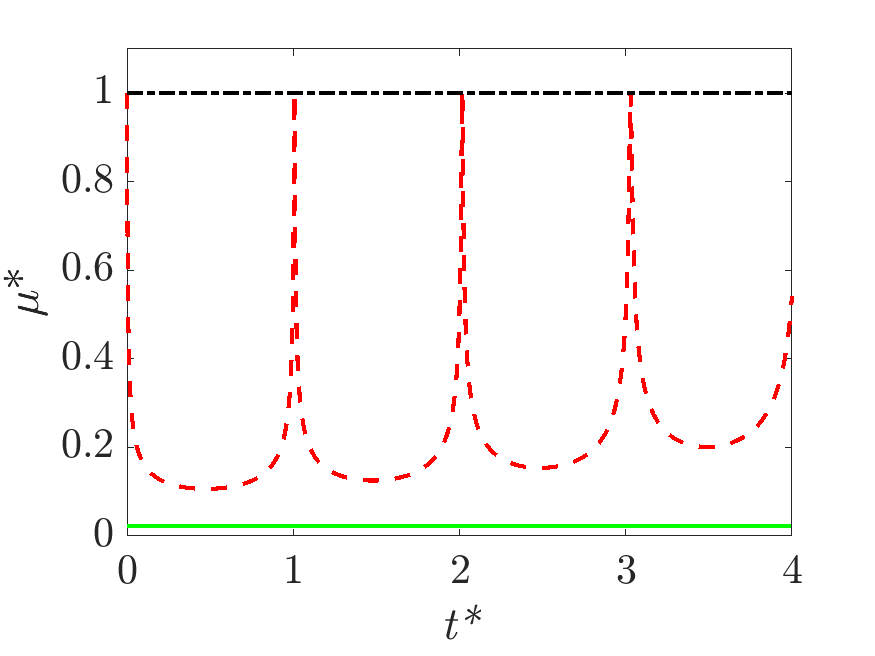
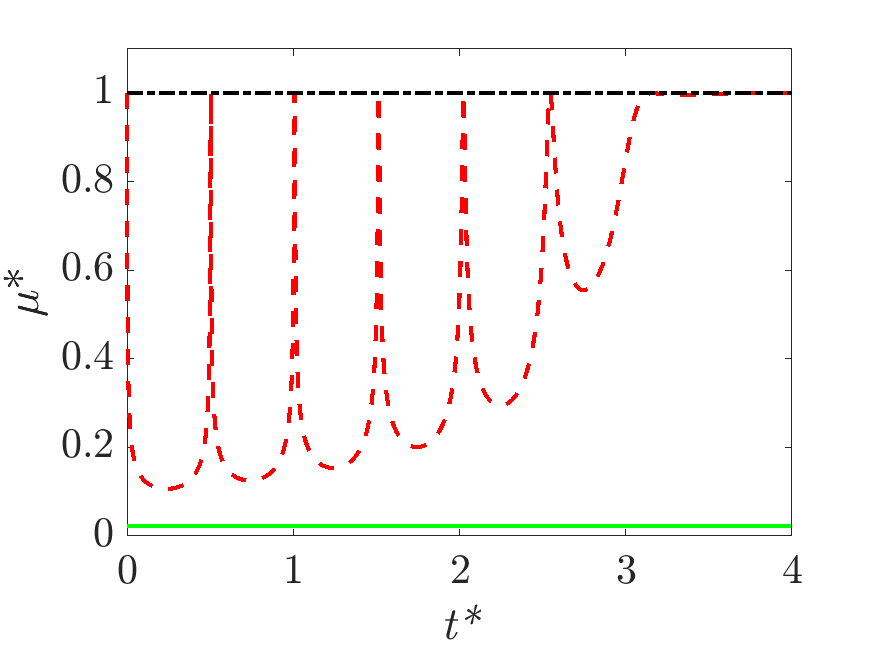
improved natural frequency calculation

diff --git a/bubblewall_main.m b/bubblewall_main.m
@@ -15,7 +15,7 @@ mu_water = 8.9*10E-4;                   % viscosity of water
 Ca = (rho*c*c)/shearmodulus;            % shear modulus of soft material 
 We_w = (rho*c*c*Ro_w)/Sd;
 mu_o = 0.112;
-omegan = (1/(pi*Ro_w))*sqrt((3*kappa*(po-pv)+(3*kappa-1)*(2*Sd)/Ro_w)/rho);
+omegan = (1/(2*pi*Ro_w))*sqrt((3*kappa*(po-pv)+(3*kappa-1)*(2*Sd)/Ro_w)/rho);
 tRC = 1/omegan;
 tfinal=4*tRC;                           % final time of simulation
 
